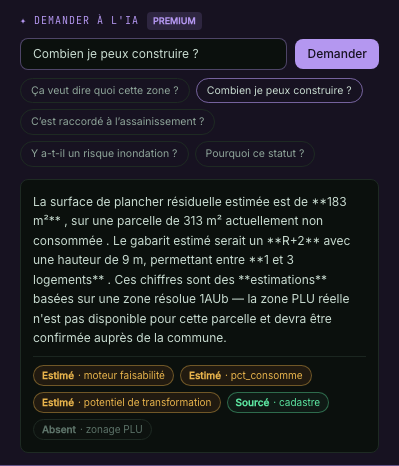
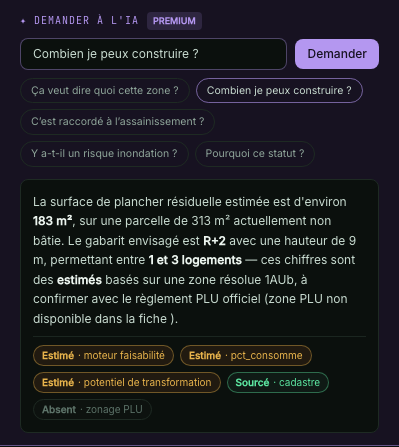
M11 surface A : rendu markdown de la barre (gras **..** -> <strong>, zéro astérisque visible)
Fix affichage : renderRich() dans AskBar rend le **gras** du modèle en <strong> et nettoie
les espaces avant ponctuation (artefact du retrait des marqueurs de source). Capture mise à jour.
(Tâche 2 zonage : diagnostiquée, fix en attente de validation Vic.)

diff --git a/frontend/src/components/fiche/AskBar.tsx b/frontend/src/components/fiche/AskBar.tsx
@@ -1,9 +1,19 @@
 // M11 · SURFACE A — barre de recherche IA par fiche (maquette CADRE-M11 §1.4).
 // Question libre sur LA parcelle → réponse SOURCÉE via le socle IA. L'IA cite ses sources
 // et dit « non disponible » quand la donnée n'existe pas — jamais d'invention.
-import { useState } from 'react'
+import { Fragment, useState } from 'react'
 import { useMutation } from '@tanstack/react-query'
 import { askParcel, type AskResponse, type Provenance } from '../../lib/api'
+
+// Rend le Markdown minimal du modèle (**gras**) → <strong>, et nettoie les artefacts d'espacement
+// (espace avant ponctuation laissé par le retrait des marqueurs de source du socle). Zéro astérisque visible.
+function renderRich(text: string) {
+  const clean = text.replace(/\s+([.,;:!?%€])/g, '$1').replace(/[ \t]{2,}/g, ' ')
+  return clean.split(/(\*\*[^*]+\*\*)/g).map((seg, i) =>
+    seg.startsWith('**') && seg.endsWith('**')
+      ? <strong key={i} className="font-semibold text-txt-hi">{seg.slice(2, -2)}</strong>
+      : <Fragment key={i}>{seg}</Fragment>)
+}
 
 // clé de champ → libellé lisible pour l'étiquette de source
 const SRC_LABEL: Record<string, string> = {
@@ -82,7 +92,7 @@ export function AskBar({ idu, zone }: { idu: string; zone?: string | null }) {
             <p className="text-[12px] text-st-ecartee">{d.texte}</p>
           ) : (
             <>
-              <p className={`whitespace-pre-wrap text-[12px] leading-relaxed ${d.absent ? 'text-txt-dim italic' : 'text-txt'}`}>{d.texte}</p>
+              <p className={`whitespace-pre-wrap text-[12px] leading-relaxed ${d.absent ? 'text-txt-dim italic' : 'text-txt'}`}>{renderRich(d.texte)}</p>
               {(d.sources?.length ?? 0) > 0 && (
                 <div className="mt-2 flex flex-wrap gap-1.5 border-t border-line pt-2">
                   {d.sources!.map((s) => (